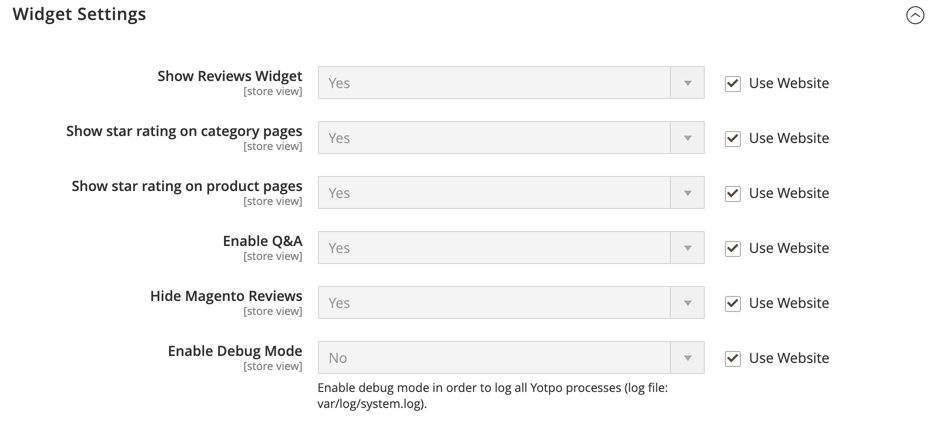
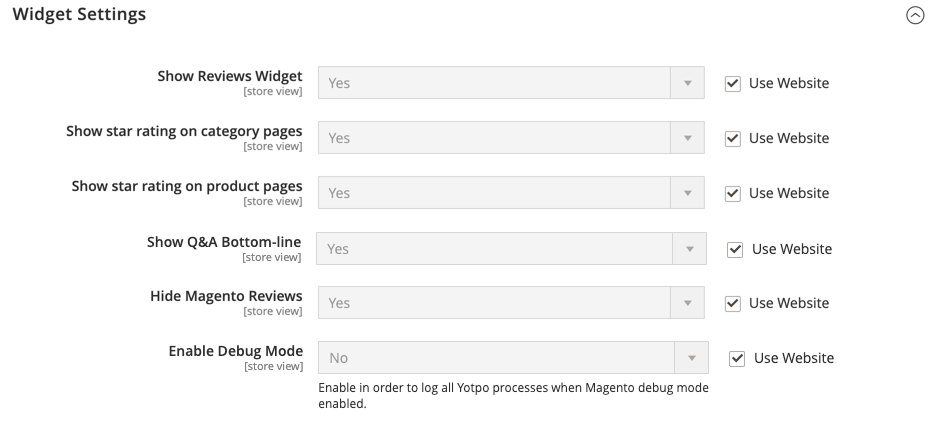
Yotpo updates for 2.3.5
Updated 3 Admin screen shots and field descriptions. Also added recent changes to introduction topic.

diff --git a/src/configuration/yotpo/reviews-visual-marketing.md b/src/configuration/yotpo/reviews-visual-marketing.md
@@ -2,7 +2,7 @@
 title: Reviews and Visual Marketing
 ---
 
-Basic Yotpo settings are accessed in the _Admin_ > **Stores** > _Configuration_ > _Yotpo_ > **Reviews and Digital Marketing**. Yotpo settings default as follows.
+Basic Yotpo settings are accessed in the _Admin_ > **Stores** > _Configuration_ > _Yotpo_ > **Reviews and Visual Marketing**. Yotpo settings default as follows.
 
 ## Setup
 
@@ -29,7 +29,7 @@ _Yotpo Default Widget Settings_
 |Show Reviews Widget|Yes|Displays Yotpo review information on the individual product page. See [The Reviews Widget](https://support.yotpo.com/en/article/the-reviews-widget-7793371).|
 |Show star rating on category pages|Yes|Displays a product's star rating at the category level. See [Star Rating](https://support.yotpo.com/en/article/star-rating).|
 |Show star rating on product pages|Yes|Displays a product's star rating on the individual product page. See [Star Rating](https://support.yotpo.com/en/article/star-rating). |
-|Enable Q&A|Yes|Displays the Q&A feature on the product page. Allows customers to ask questions regarding a specific product. The questions will be directed to the Yotpo account owner and to customers who had previously purchased the product. See [Q&A Feature](https://support.yotpo.com/en/article/questions-answers-feature).|
+|Show Q&A Bottom-line|Yes|Displays the Q&A feature on the product page. Allows customers to ask questions regarding a specific product. The questions will be directed to the Yotpo account owner and to customers who had previously purchased the product. See [Q&A Feature](https://support.yotpo.com/en/article/questions-answers-feature).|
 |Hide Magento Reviews|Yes|Hides the [Magento Product Reviews]({% link marketing/magento-product-reviews.md -%}) feature from product and category pages. |
 |Enable Debug Mode|No|Enable debug mode to log all Yotpo processes (log file: var/log/system.log).|
 

diff --git a/src/marketing/yotpo-reviews-intro.md b/src/marketing/yotpo-reviews-intro.md
@@ -17,16 +17,22 @@ See the [Yotpo website](https://www.yotpo.com/platform/visual-marketing/) for mo
 
 With Magento v2.3.3+, integrating your Magento store is a quick, simple process and gives you access to the content and data customizations available in your Yotpo account. See [Integrate your Magento Store with your Yotpo Account]({% link marketing/yotpo-connect.md %}).
 
-## Changes In the Latest Release
+## Changes in the Latest Release
 
-This release contains changes to correct a variety of issues and to update documentation and Yotpo-specific links.
+This release contains enhancements and resolved issues.
 
-- The **Yotpo Reviews** and **Yotpo Analytics** links in the Admin > Reports section have been updated to redirect to the connected Yotpo account information.
+### Enhancements
 
-- Corrected issues related to the syncing of invalid orders. Invalid orders are now listed in the log, and additional syncs are not attempted.
+- Order status updates (example: shipped, invoiced) are now included in the product review data shared between Magento and Yotpo.
 
-- Corrected an issue preventing orders from syncing correctly.
+### Resolved Issues
 
-- Updated  documentation links in the Admin.
+- Corrected an issue causing errors when accessing Magento Analytics.
 
-- Corrected an issue preventing Yotpo settings from displaying in the Admin after setup when `Single-Store` mode is selected.
+- Corrected an issue causing errors in the review star display on product pages.
+
+- Changed the data transfer process for products with no reviews to optimize system performance.
+
+- Shortened the system wait time for network "timeout" issues.
+
+- Corrected an issue preventing the _Ask a Question_ feature from appearing on product pages.

diff --git a/src/marketing/yotpo-settings.md b/src/marketing/yotpo-settings.md
@@ -21,7 +21,7 @@ Widget settings include the following:
 
 - **Show star rating on product pages** - When set to `Yes`, the individual product page displays the product's star rating. Shoppers can click the Star Rating to read full reviews displayed in the Reviews Widget. See [Star Rating](https://support.yotpo.com/en/article/star-rating).
 
-- **Enable Q&A** - When set to `Yes`, the product page displays the Q&A feature, which enables customers to ask questions regarding a specific product directed to the Yotpo account owner and to customers who had previously purchased the product. See [Q&A Feature](https://support.yotpo.com/en/article/questions-answers-feature).
+- **Show Q&A Bottom-line** - When set to `Yes`, the product page displays the Q&A feature, which enables customers to ask questions regarding a specific product directed to the Yotpo account owner and to customers who had previously purchased the product. See [Q&A Feature](https://support.yotpo.com/en/article/questions-answers-feature).
 
 - **Hide Magento Reviews** - When set to `Yes`, this disables the [Magento Product Reviews]({% link marketing/magento-product-reviews.md %}) feature for product and category pages.
 
